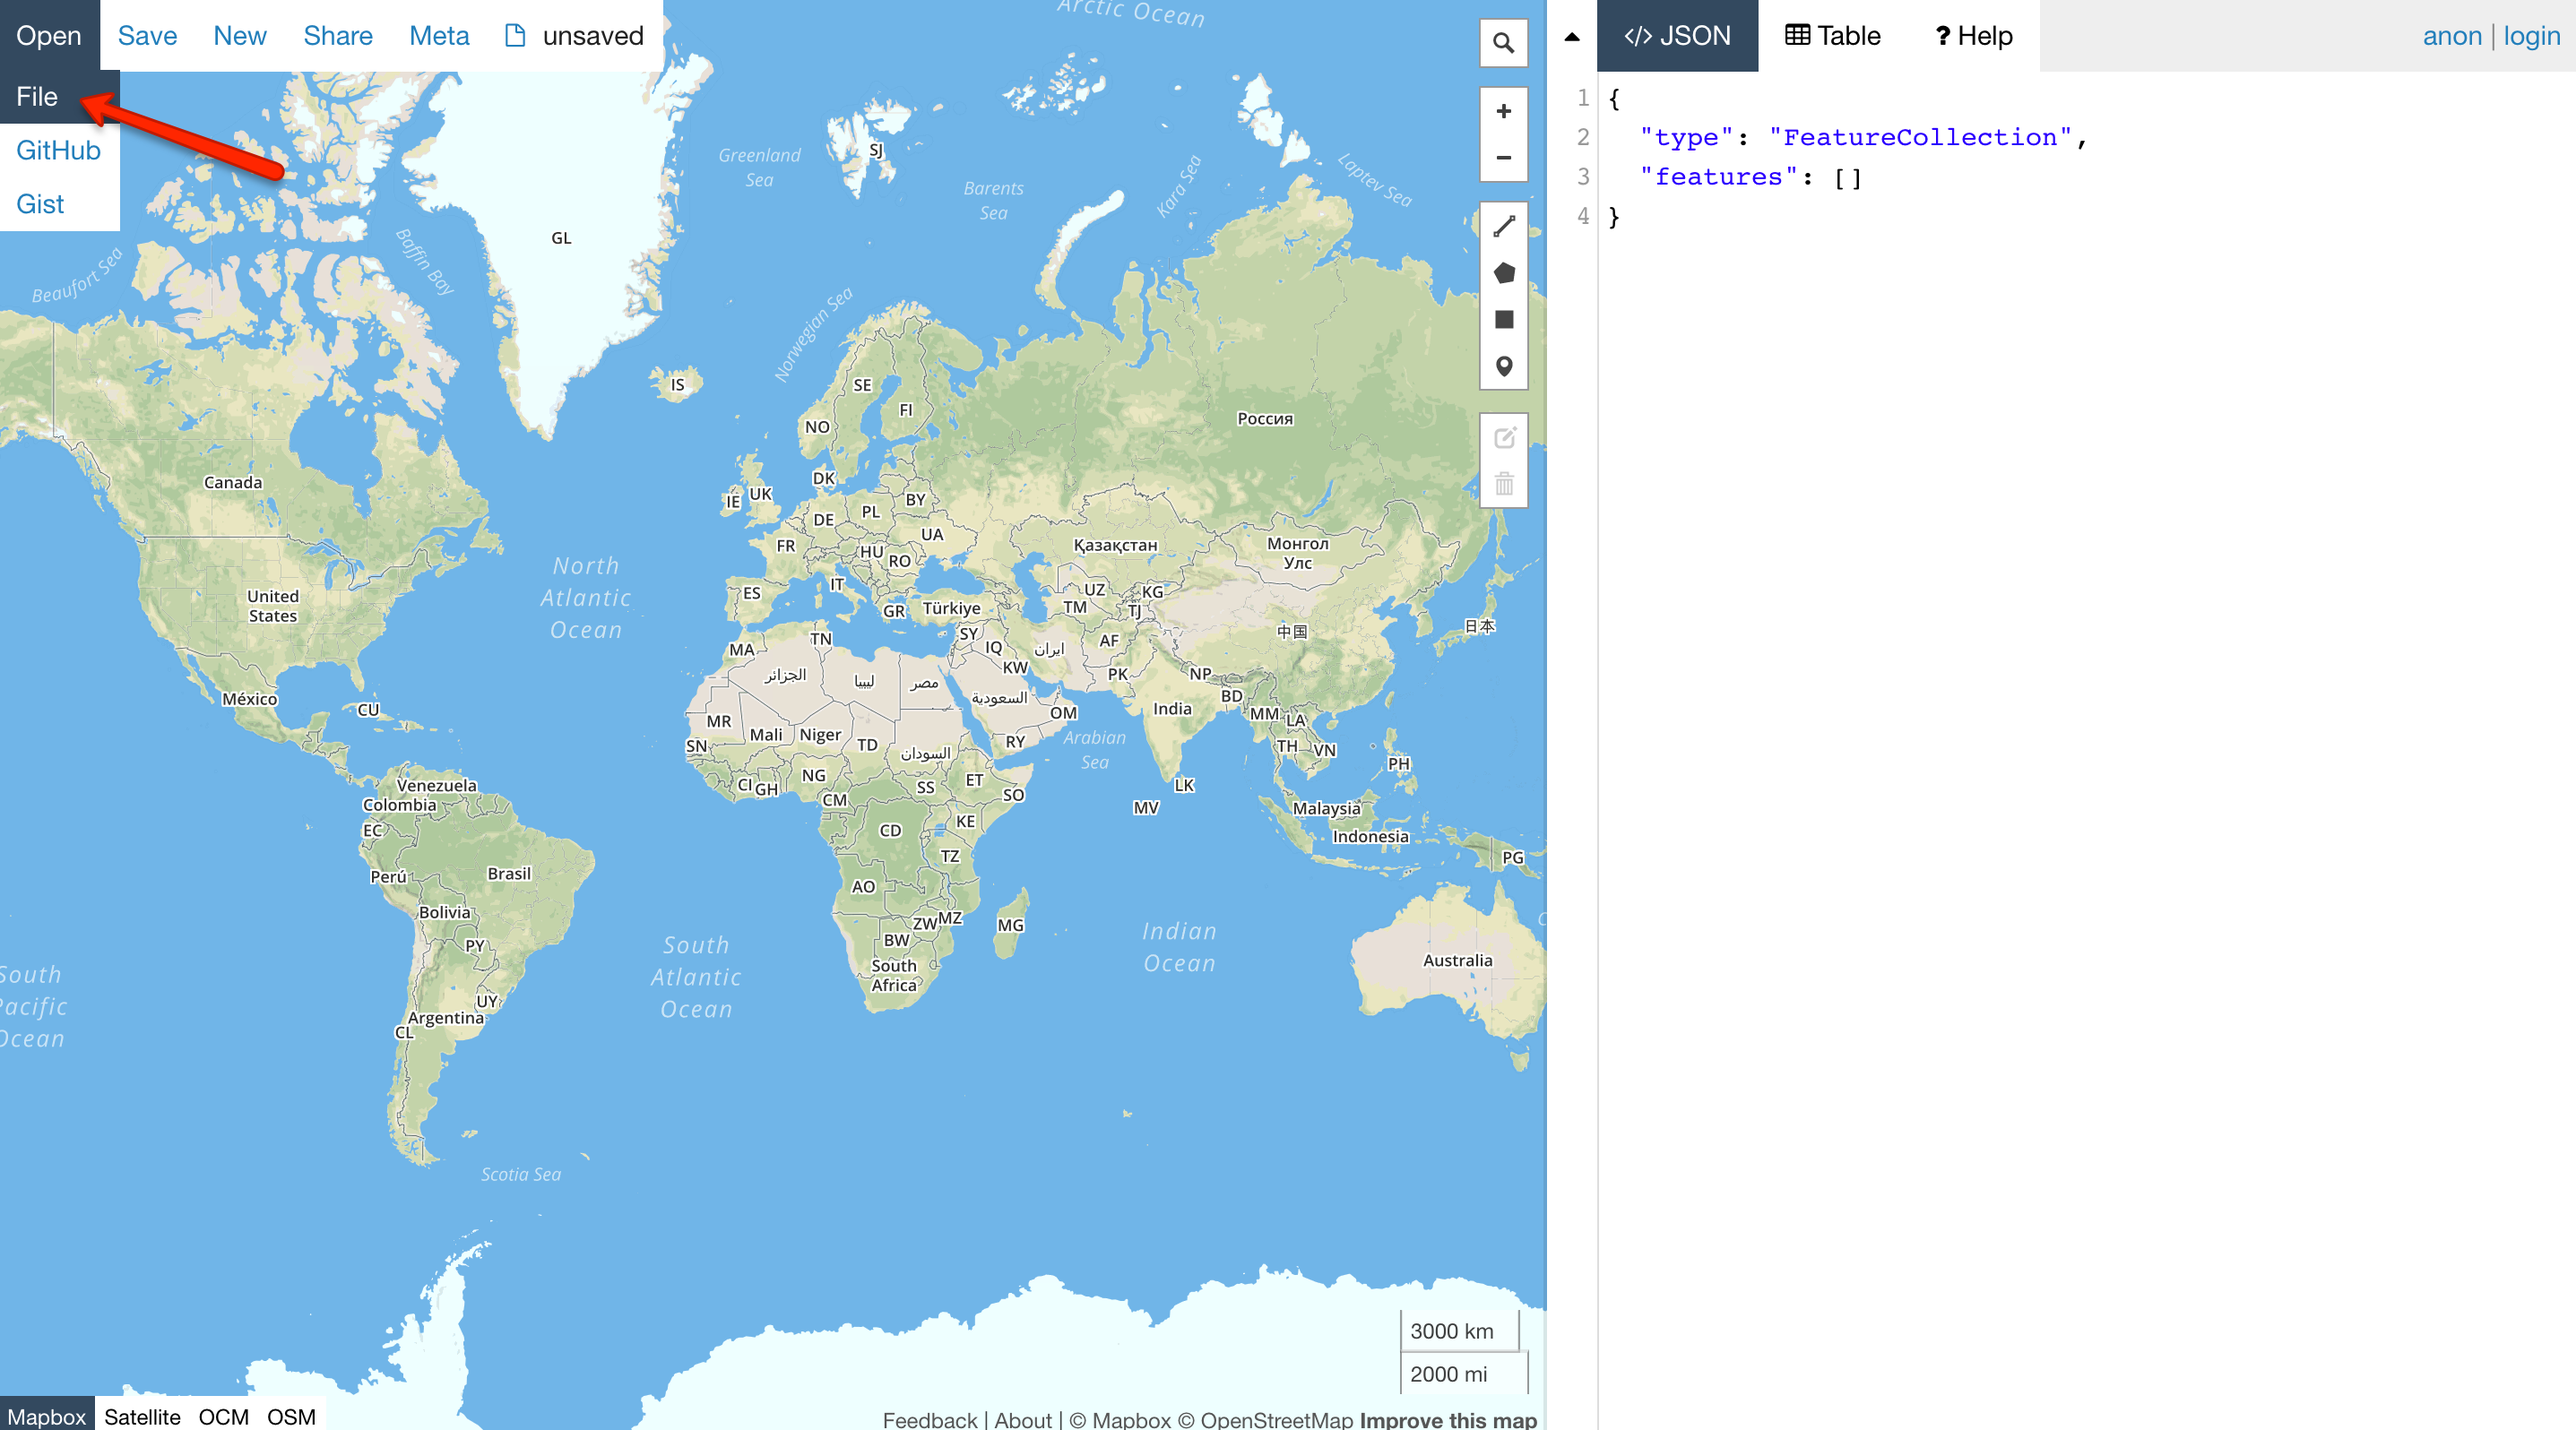
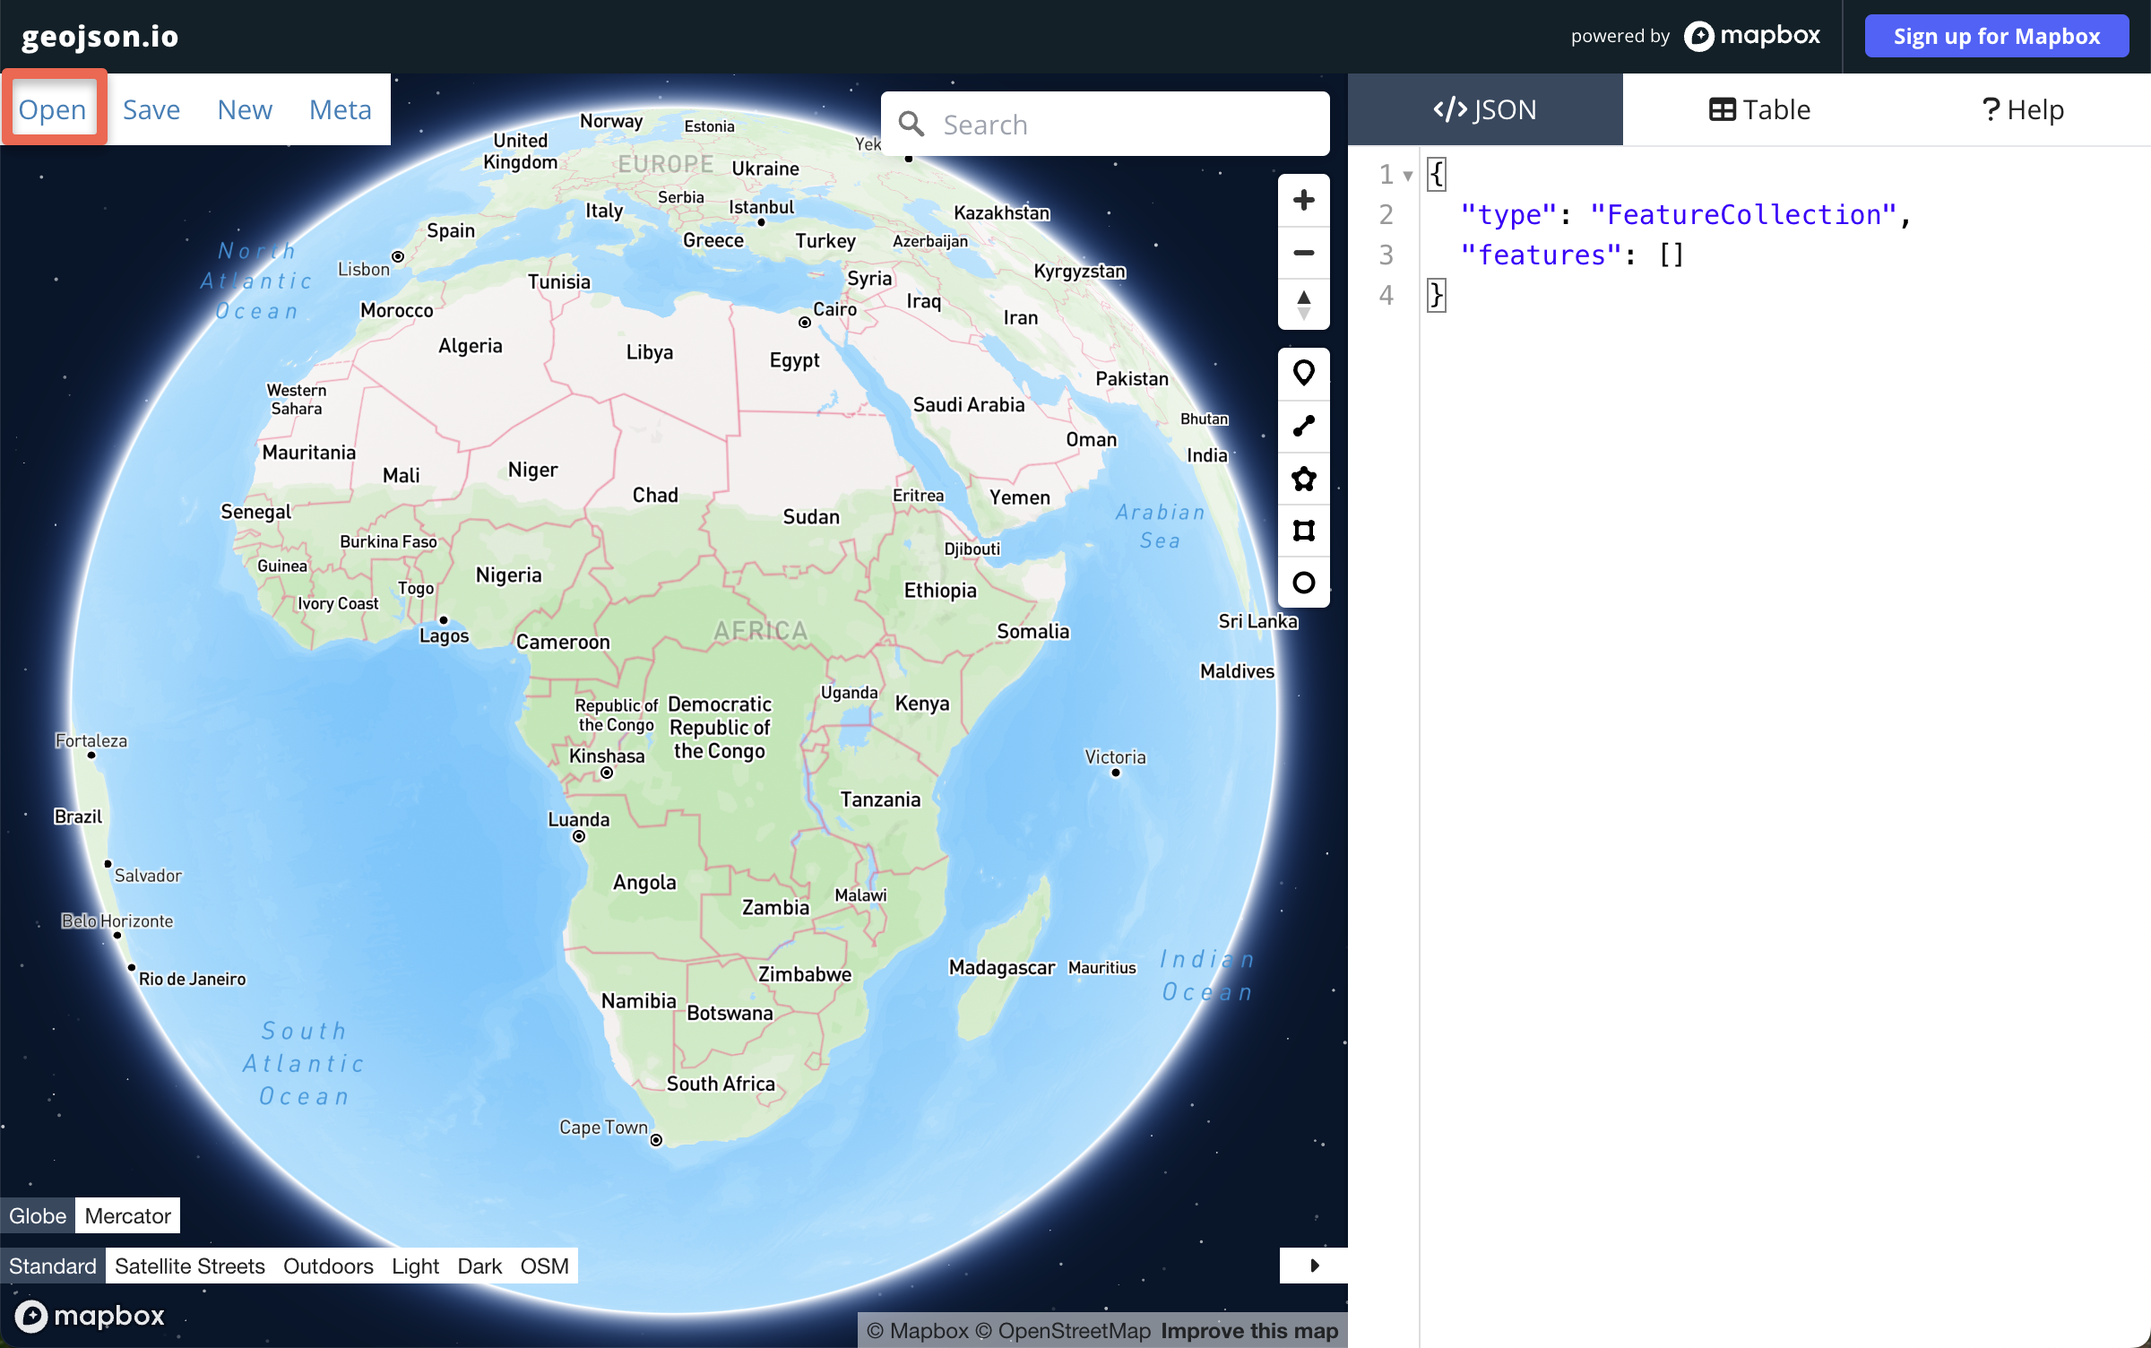
2024

diff --git a/index.html b/index.html
@@ -121,7 +121,7 @@
                 <div class="wrap">
 
                    <h1>Lab 7. Time Series Proportional Symbols <i class="fa fa-leaf"></i></h1>
-                  <h3 style="color:#F6F90A"><b><i class="fa fa-spinner fa-spin"></i>  Due: 11:59 pm, Thursday, 11/19</b></h3>
+                  <h3 style="color:#F6F90A"><b><i class="fa fa-spinner fa-spin"></i>  Due: 11:59 pm, Wednesday, 11/20</b></h3>
                 </div>
             </div>
 
@@ -134,7 +134,7 @@
                   <h3><i class="fa fa-paint-brush"></i> Overview</h3>
                   <p><i class="fa fa-spinner fa-spin"></i>  In this lab, we will create a time series proportional symbol map with Leaflet and <a href="https://www.w3schools.com/jquery/jquery_intro.asp" target="_blank">JQuery</a> (another JS library). This lab exercise is modified from <a href="http://www.cartographicperspectives.org/index.php/journal/article/view/cp76-donohue-et-al/1307" target="_blank">this tutorial</a>.</p>
                     <p><i class="fa fa-spinner fa-spin"></i>  The scripts contain a lot of function definitions and may be difficult to follow if you are trying to understand them line by line. I have provided comments as explanations. However, you may use the scripts as a template to map data with a similar structure. I am always happy to explain in more details if you are interested in learning the syntax.</p>
-                    <p><i class="fa fa-spinner fa-spin"></i>  Please read the instructions carefully and complete the assignment in the <a href="#deliverable">Deliverables</a> section at the bottom. And you will need to apply some of the data processing skills introduced in Lab 6, <i>e.g., table join, polygon centroid,</i> to put the deliverable data together.</p>
+                    <p><i class="fa fa-spinner fa-spin"></i>  Please read the instructions carefully and complete the assignment in the <a href="#deliverable">Deliverables</a> section at the bottom. </p>
 <!--                    <h3 >IMPORTANT: Please use <span style="color: red">Firefox</span> to test the results!</h3>-->
 
                     <p>*******************************************************************************************************************</p>
@@ -148,8 +148,8 @@
                     <ul>
                         <li>Click <a href="https://drive.google.com/file/d/0BzvZaHCgmEmNTTVBRnZyQjRtVnM/view?usp=sharing" target="_blank" style="font-weight:bold">here</a> to download the example data. Spend some time to make sure you understand the data structure.
                             <br><i>For the deliverables, you will create a time series tabular data of Zika outbreak in the U.S. from separate data files (link provided). Note <b>the timestamp columns should be placed in chronological order from left to right</b></i>. </li>
-                        <li>In the previous lab, we introduced how to display a csv table with coordinate information as points in QGIS. We are introducing an online tool this time, which may come in handy when other GIS processing (e.g., table join, simplify geometry) is not required. </li>
-                            <li>In your web browser, go to <a href="http://geojson.io" target="_blank">geojson.io</a>, select <b>Open - File</b> (see image below) to open the csv file you have just downloaded. </li>
+                        <li>We will introduce an online platform for displaying points with coordinates this time, which may come in handy when other GIS processing (e.g., table join, simplify geometry) is not required. </li>
+                            <li>In your web browser, go to <a href="http://geojson.io" target="_blank">geojson.io</a>, select <b>Open</b> (see image below) to open the csv file you have just downloaded. </li>
                         <center><img src="img/open.png" width=98%></center>
                         <li>The data, <i>i.e., 15 U.S. cities</i>, should have been loaded as points/markers to the site.</li>
                         <li>Next, click <b>Save - GeoJSON</b> to save the data as a geojson file to your lab 7 folder.</li>
@@ -391,7 +391,7 @@ function calcPropRadius(attributeValue) {
                         <li>Create a time series proportional symbol map of the zika outbreak, add a <mark>map title with L.control</mark> (review Lab 6 if needed).</li>
                         <li>Your final map will be graded based on its <b>overall design and accuracy, e.g., proportional symbol size, timestamps and labels, pop up content, etc.</b></li>
                         <li><b><i>Extra Credits:</i></b> Create a <b>map legend for the proportional symbols</b> (<i>Hint: You may visit <a href="http://www.cartographicperspectives.org/index.php/journal/article/view/cp76-donohue-et-al/1307" target="_blank">this tutorial</a> and see <b>Step 8</b> to learn how</i>; <br>Note if you copy the code from the tutorial, you may need to fix the curly quotes to straight quotes to make it work.) </li>
-                        <li>Host your map via GitHub (Make sure to rename the html file as <code>index.html</code> and upload any <b>associated data files</b> to the repository!!!) and submit the url through <a href="https://neiu.desire2learn.com/d2l/lms/dropbox/admin/mark/folder_submissions_users.d2l?db=121560&ou=2954974" target="_blank">D2L</a>. </li> <br>
+                        <li>Host your map via GitHub (Make sure to rename the html file as <code>index.html</code> and upload any <b>associated data files</b> to the repository!!!) and submit the url through <a href="https://neiu.desire2learn.com/d2l/lms/dropbox/admin/mark/folder_submissions_users.d2l?db=237082&ou=3020560" target="_blank">D2L</a>. </li> <br>
 
                     </ul><br>
 
@@ -402,7 +402,7 @@ function calcPropRadius(attributeValue) {
           <footer>
             <div class="wrap">
 
-              <p>Copyright &copy; Ting Liu 2020</p>
+              <p>Copyright &copy; Ting Liu 2024</p>
             <div>Icons made by <a href="http://www.freepik.com" title="Freepik">Freepik</a> from <a href="https://www.flaticon.com/" title="Flaticon">www.flaticon.com</a> is licensed by <a href="http://creativecommons.org/licenses/by/3.0/" title="Creative Commons BY 3.0" target="_blank">CC 3.0 BY</a></div>
             </div>
           </footer>
